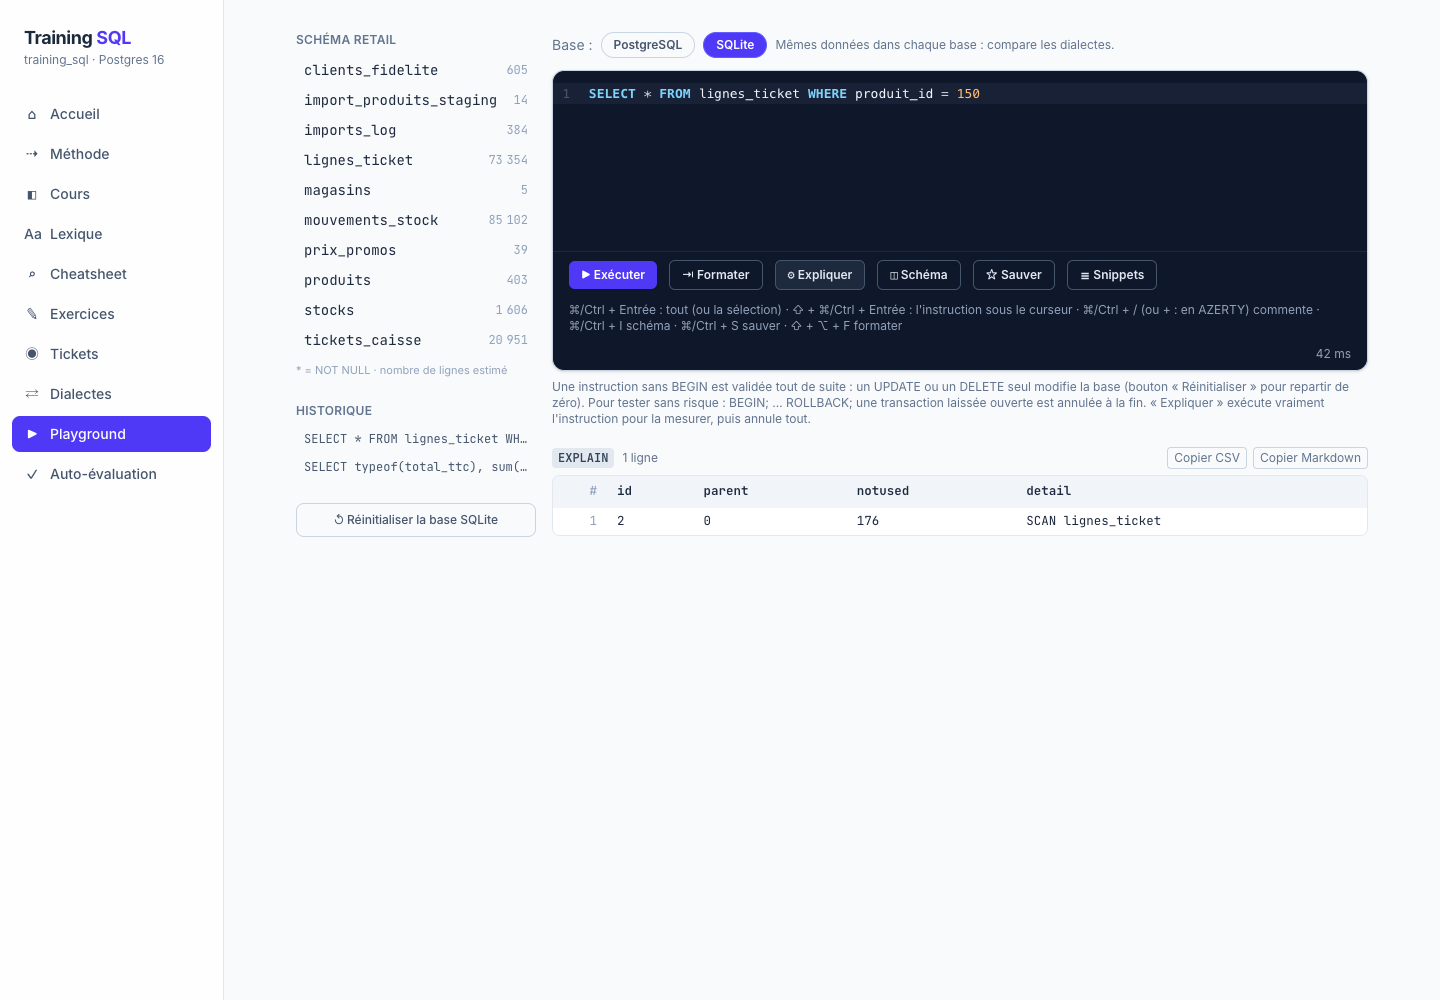
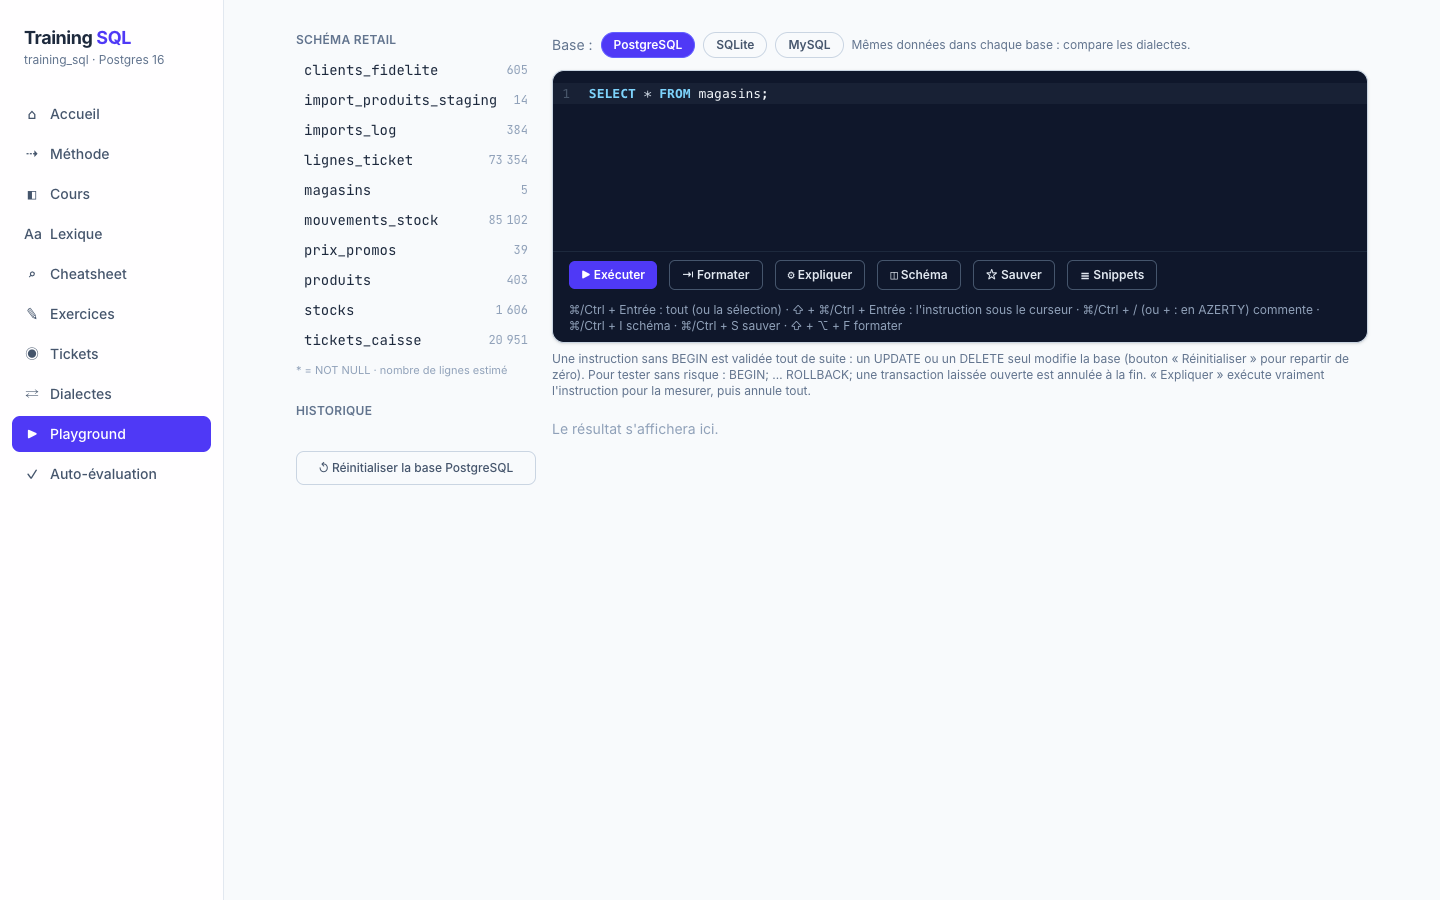
Point out MySQL and SQLite differences in the lessons
Eight lessons end with an "Et ailleurs ?" box: FULL JOIN, NULL handling and
ordering, string aggregation and FILTER, recursive CTEs and DISTINCT ON,
window functions, dates, non-transactional DDL and upsert, query plans. Each
links to the dialects page and suggests switching the playground's base. The
claims were run on the three engines.

diff --git a/app/src/pages/Lessons.tsx b/app/src/pages/Lessons.tsx
@@ -1,6 +1,7 @@
 import type { ReactNode } from 'react'
 import { PageHeader, H2, H3, P, Callout, C, Sql, Tag } from '../components/ui'
 import { JoinGrid } from '../components/JoinGrid'
+import { useNav } from '../lib/nav'
 import { ExecOrder, SchemaDiagram, JoinViz, TruthTable, WindowViz, TimezoneViz, SafeFixSteps, DiagFlow } from '../components/viz'
 
 const lessons = [
@@ -45,6 +46,17 @@ function Tickets({ ids }: { ids: string[] }) {
 
 function Intuition({ children }: { children: ReactNode }) {
   return <p className="my-3 border-l-2 border-indigo-400 pl-4 text-lg leading-relaxed text-slate-700 italic dark:text-slate-300">{children}</p>
+}
+
+/** Différences avec les autres dialectes, avec un lien vers le comparatif complet. */
+function Elsewhere({ children }: { children: ReactNode }) {
+  const { go } = useNav()
+  return (
+    <Callout tone="tip" title="Et ailleurs ? (MySQL, SQLite…)">
+      {children}{' '}
+      <button onClick={() => go('dialectes')} className="font-medium underline underline-offset-2">Comparatif des dialectes</button>. Pour essayer, change de base dans le playground.
+    </Callout>
+  )
 }
 
 export default function Lessons() {
@@ -209,6 +221,7 @@ LIMIT 10;`}
             <C>count(*)</C> avant et après la jointure.
           </Callout>
           <Tickets ids={['T04', 'T10', 'T02']} />
+          <Elsewhere><C>FULL JOIN</C> n'existe pas en MySQL : on l'obtient avec l'<C>UNION</C> d'un <C>LEFT JOIN</C> et d'un <C>RIGHT JOIN</C>. SQLite le gère depuis la version 3.39.</Elsewhere>
         </Lesson>
 
         {/* 4 ---------------------------------------------------------- */}
@@ -248,6 +261,7 @@ WHERE NOT EXISTS (SELECT 1 FROM lignes_ticket l WHERE l.produit_id = p.id);`}
             <C>coalesce(…, 0)</C> dans un rapport.
           </Callout>
           <Tickets ids={['T02', 'T15', 'T11']} />
+          <Elsewhere>La logique à 3 valeurs est la même partout, mais pas les fonctions : <C>a || NULL</C> vaut NULL en PostgreSQL et SQLite, alors que <C>CONCAT('a', NULL)</C> vaut NULL en MySQL. En tri croissant, les NULL arrivent à la fin en PostgreSQL, au début en MySQL et SQLite. Sous Oracle, la chaîne vide <C>''</C> est NULL.</Elsewhere>
         </Lesson>
 
         {/* 5 ---------------------------------------------------------- */}
@@ -294,6 +308,7 @@ ORDER BY qte DESC;`}
             GROUP BY (et accepte la nouvelle granularité) ou agrège-la. Exception utile : grouper par la clé primaire autorise les autres colonnes de la même table.
           </Callout>
           <Tickets ids={['T01', 'T08', 'T14']} />
+          <Elsewhere><C>string_agg</C> s'écrit <C>GROUP_CONCAT(x ORDER BY x SEPARATOR ', ')</C> en MySQL et <C>group_concat(x, ', ')</C> en SQLite. <C>count(*) FILTER (WHERE …)</C> existe en SQLite mais pas en MySQL : on écrit <C>sum(condition)</C> ou <C>count(CASE WHEN … THEN 1 END)</C>, qui marche partout.</Elsewhere>
         </Lesson>
 
         {/* 6 ---------------------------------------------------------- */}
@@ -345,6 +360,7 @@ CROSS JOIN LATERAL (
             dupliquent jamais, alors qu'un <C>JOIN</C> peut le faire.
           </Callout>
           <Tickets ids={['T07', 'T11', 'T12']} />
+          <Elsewhere><C>WITH</C> et <C>WITH RECURSIVE</C> marchent tels quels en MySQL 8 et SQLite. <C>DISTINCT ON</C> est propre à PostgreSQL : ailleurs, <C>row_number() OVER (…) = 1</C> dans une sous-requête.</Elsewhere>
         </Lesson>
 
         {/* 7 ---------------------------------------------------------- */}
@@ -405,6 +421,7 @@ ORDER BY flux, magasin_id, debut DESC;`}
             qui choisit la ligne gardée.
           </Callout>
           <Tickets ids={['T08', 'T14', 'T11']} />
+          <Elsewhere>Les fonctions de fenêtre sont standard : MySQL les gère depuis la version 8.0, SQLite depuis la 3.25. Les mêmes requêtes tournent sur les trois bases du playground.</Elsewhere>
         </Lesson>
 
         {/* 8 ---------------------------------------------------------- */}
@@ -444,6 +461,7 @@ ORDER BY d;`}
             Et <C>date_ticket::date</C> dépend du fuseau de session : sois explicite avec <C>AT TIME ZONE 'Europe/Paris'</C>.
           </Callout>
           <Tickets ids={['T03', 'T09']} />
+          <Elsewhere>C'est là que les dialectes divergent le plus. SQLite n'a pas de type date : les dates sont du texte ISO (<C>date(d, '+7 days')</C>, <C>strftime</C>). MySQL n'a pas de fuseau dans <C>DATETIME</C> et écrit <C>DATE_ADD(d, INTERVAL 7 DAY)</C>, <C>DATEDIFF(d2, d1)</C>. Dans le playground, les horodatages sont copiés en heure de Paris.</Elsewhere>
         </Lesson>
 
         {/* 9 ---------------------------------------------------------- */}
@@ -477,6 +495,7 @@ ROLLBACK;                                     -- 4. rien n'est modifié`}
             l'exécute en production.
           </Callout>
           <Tickets ids={['T05', 'T12']} />
+          <Elsewhere>Sous MySQL, <C>CREATE</C>, <C>ALTER</C> et <C>DROP</C> valident la transaction en cours : un <C>ROLLBACK</C> ne les annule pas. L'upsert s'écrit <C>ON DUPLICATE KEY UPDATE</C> en MySQL et <C>ON CONFLICT … DO UPDATE</C> en SQLite, comme en PostgreSQL.</Elsewhere>
         </Lesson>
 
         {/* 10 --------------------------------------------------------- */}
@@ -536,6 +555,7 @@ ORDER BY duree DESC;`}
             pas un index soi-même : on transmet le plan avant/après à l'équipe technique (qui utilisera <C>CREATE INDEX CONCURRENTLY</C>).
           </Callout>
           <Tickets ids={['T13']} />
+          <Elsewhere>Chaque moteur a son plan : <C>EXPLAIN QUERY PLAN</C> en SQLite (« SCAN » = parcours complet, « SEARCH … USING INDEX » = index), <C>EXPLAIN ANALYZE</C> en MySQL. Le bouton « Expliquer » du playground utilise la bonne forme selon la base choisie.</Elsewhere>
         </Lesson>
 
         {/* 11 --------------------------------------------------------- */}
